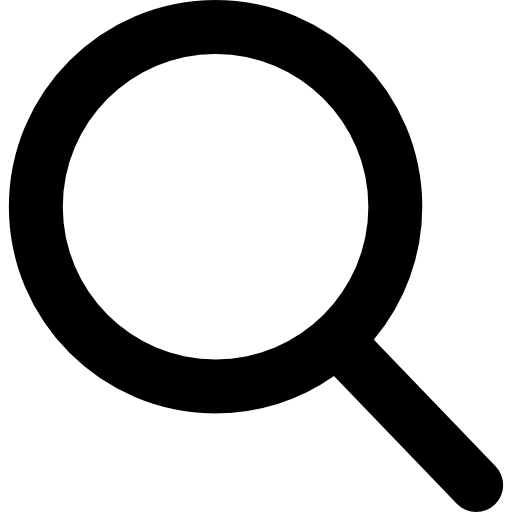
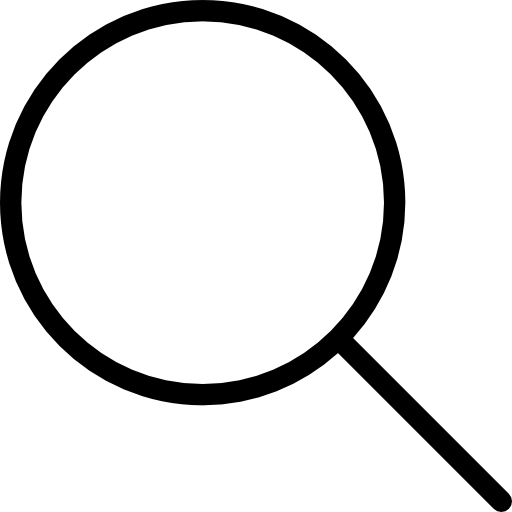
20230605 00:47

Changed region(s): [[0.0, 0.0, 1.0, 1.0], [0.125, 0.6875, 0.1562, 0.7188]]

diff --git a/src/App.tsx b/src/App.tsx
@@ -96,6 +96,8 @@ function List() {
   const cr_trade_volume = useSelector((state: RootState) => { return state.cr_trade_volume });
   const star = useSelector((state: RootState) => { return state.star });
 
+  const [search_cr, setSearch_cr] = useState<string>('');
+
   // 별 이미지를 클릭하면 on off
   const handleStarClick = (index: number) => {
     dispatch(setStar(index));
@@ -106,10 +108,8 @@ function List() {
 
       {/* 검색 공간 */}
       <div className='list-search'>
-        <input type="text" placeholder='검색'></input>
-        <button className='btn-search'>
           <img className='img-search' src={search}></img>
-        </button>
+        <input type="text" placeholder='검색' value={search_cr} onChange={(e) => setSearch_cr(e.target.value)}></input>
       </div>
 
       {/* 화폐 구분 목록 */}
@@ -136,22 +136,22 @@ function List() {
           <tr>
             <th className='name'>
               화폐명&nbsp;
-              <img src={sort}>
+              <img className='sort' src={sort}>
               </img>
             </th>
             <th className='price'>
               현재가&nbsp;
-              <img src={sort}>
+              <img className='sort' src={sort}>
               </img>
             </th>
             <th className='compare'>
               전일대비&nbsp;
-              <img src={sort}>
+              <img className='sort' src={sort}>
               </img>
             </th>
             <th className='transaction'>
               거래대금&nbsp;
-              <img src={sort}>
+              <img className='sort' src={sort}>
               </img>
             </th>
           </tr>
@@ -160,7 +160,11 @@ function List() {
 
           {/* map 반복문을 이용해 <tr><td>생성, 화폐 정보 출력 */}
           {
-            cr_names.map((item, i) =>
+            cr_names
+              .filter((item) =>
+                item.toLowerCase().includes(search_cr.toLowerCase())
+              )
+              .map((item, i) =>
               <tr key={i}>
                 <td className='td-star'>
                   <img

diff --git a/src/App.css b/src/App.css
@@ -81,17 +81,15 @@ input {
   margin: 10px 10px;
   border: none;
   width: 80%;
-}
-
-.btn-search {
-  border: none;
-  background-color: white;
+  outline: none;
 }
 
 .img-search {
   position: relative;
-  height: 18px;
-  top: 6px;
+  height: 16px;
+  left: 10px;
+  top: 2.5px;
+  margin-right: 7px;
 }
 
 .list-category {
@@ -160,4 +158,10 @@ input {
 
 .td-even {
   color: black;
+}
+
+.sort {
+  position: relative;
+  top: 1px;
+  left: 1px;
 }

diff --git a/crypto_django/app/price_per_stack.py b/crypto_django/app/price_per_stack.py
@@ -45,7 +45,7 @@ def price():
         atp = format(atp, ",")
         acc_trade_price_24h.append(atp)
 
-    print(change)
+    print(change_rate)
     return names, cur_price, unJoin_markets, change, change_rate, change_price, acc_trade_price_24h
 
 price()
